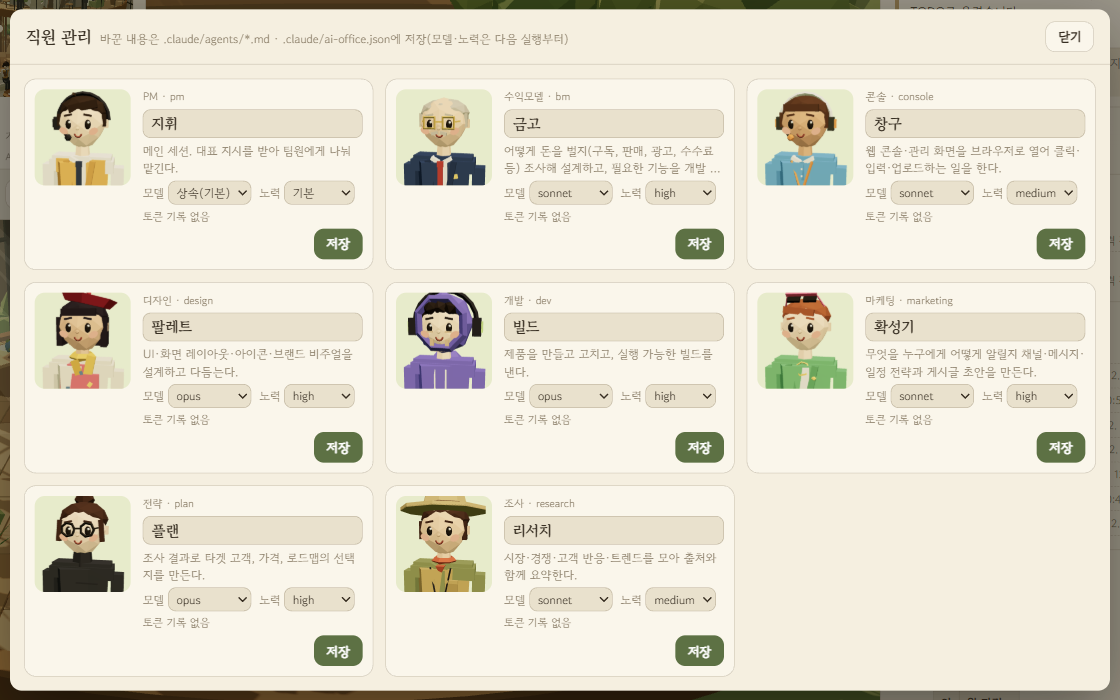
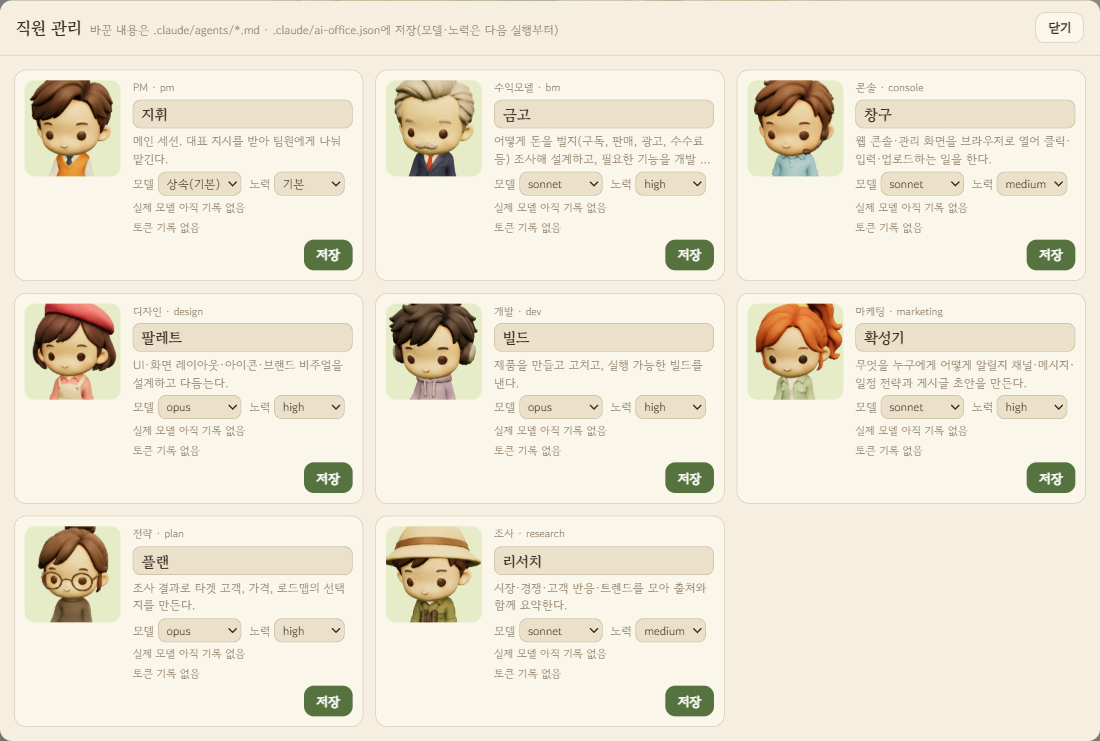
가짜 나뭇잎 그림자(데크 위 얼룩) 제거, 직원 관리 초상화를 피규어 머리에 맞춤, README 스크린샷을 하늘섬·피규어로 교체(0.3.1)
Claude-Session: https://claude.ai/code/session_01FTtR7GnK4ACb5yzyg4Jtu3

Changed region(s): [[0.0, 0.0, 1.0, 1.0]]

diff --git a/README.md b/README.md
@@ -2,7 +2,7 @@
 
 Claude Code 안에 **PM 한 명과 역할별 팀원**을 두고, 대표(나)는 지시하고 결정만 하게 만들어 주는 플러그인입니다. 프로젝트 폴더에서 `/ai-office:init` 한 번이면 팀 구성, 업무 규칙, 할 일 보드, 3D 대시보드가 모두 깔립니다.
 
-![작업 중인 AI 오피스: 왼쪽은 숲속 3D 오피스, 오른쪽은 지시·대표 TODO·보고함 패널](docs/readme/office.png)
+![작업 중인 AI 오피스: 왼쪽은 하늘섬 3D 오피스, 오른쪽은 지시·대표 TODO·보고함 패널](docs/readme/office.png)
 
 *대표가 "경쟁 앱을 research에게 조사시키고, plan이 가격 선택지를 만들어 줘"라고 지시한 직후의 화면입니다. PM이 일을 나누고, 팀원은 책상에서 일하거나 서류를 들고 오가며, 대표가 결정할 일은 오른쪽 `대표 TODO`에 쌓입니다.*
 
@@ -76,15 +76,15 @@ ai-office는 이것을 **회사처럼** 정리합니다. PM이 지시를 받아 
 
 ## 대시보드 둘러보기
 
-`node tools/office.mjs`로 여는 로컬 웹 화면입니다(http://127.0.0.1:4747). 지시를 보내면 `claude -p`로 PM 세션이 돌고, 그 과정이 숲속 3D 오피스에 실시간으로 그려집니다.
+`node tools/office.mjs`로 여는 로컬 웹 화면입니다(http://127.0.0.1:4747). 지시를 보내면 `claude -p`로 PM 세션이 돌고, 그 과정이 하늘섬 3D 오피스에 실시간으로 그려집니다.
 
 **3D 오피스**
 - 팀원은 `.claude/agents/*.md`를 읽어 자기 책상에 앉습니다. 머리 위 말풍선에 지금 하는 일이 보입니다.
 - PM이 일을 맡기면 서류를 들고 걸어가 전달하고, 끝나면 보고서를 들고 돌아옵니다.
 - 일이 없는 팀원은 가운데 라운지나 **나선 계단을 올라 나무 위 2층 데크**에서 쉽니다. 일이 오면 책상으로 돌아갑니다.
-- 표정이 상태에 따라 바뀝니다. 쉴 때는 웃고, 일할 때는 집중하고, 대표의 답을 기다릴 때는 걱정합니다.
+- 팀원은 역할마다 생김새가 다른 2.5등신 피규어입니다. 걷기, 앉기, 쉬기, 두리번거리기 같은 동작은 모두가 한 벌을 같이 씁니다.
 
-![직원 표정: 왼쪽부터 기본, 일할 때 집중, 대표 답 기다릴 때 걱정, 쉴 때 웃음](docs/readme/faces.png)
+![역할별 피규어: 콘솔, 대표, PM, 조사, 전략, 개발, 마케팅, 수익모델, 디자인](docs/readme/figures.png)
 
 **히스토리 카드**: 팀원을 누르면 그 사람이 맡은 일의 진행 기록(지시, 조사, 산출물, 보고)이 시간순으로 열립니다.
 
